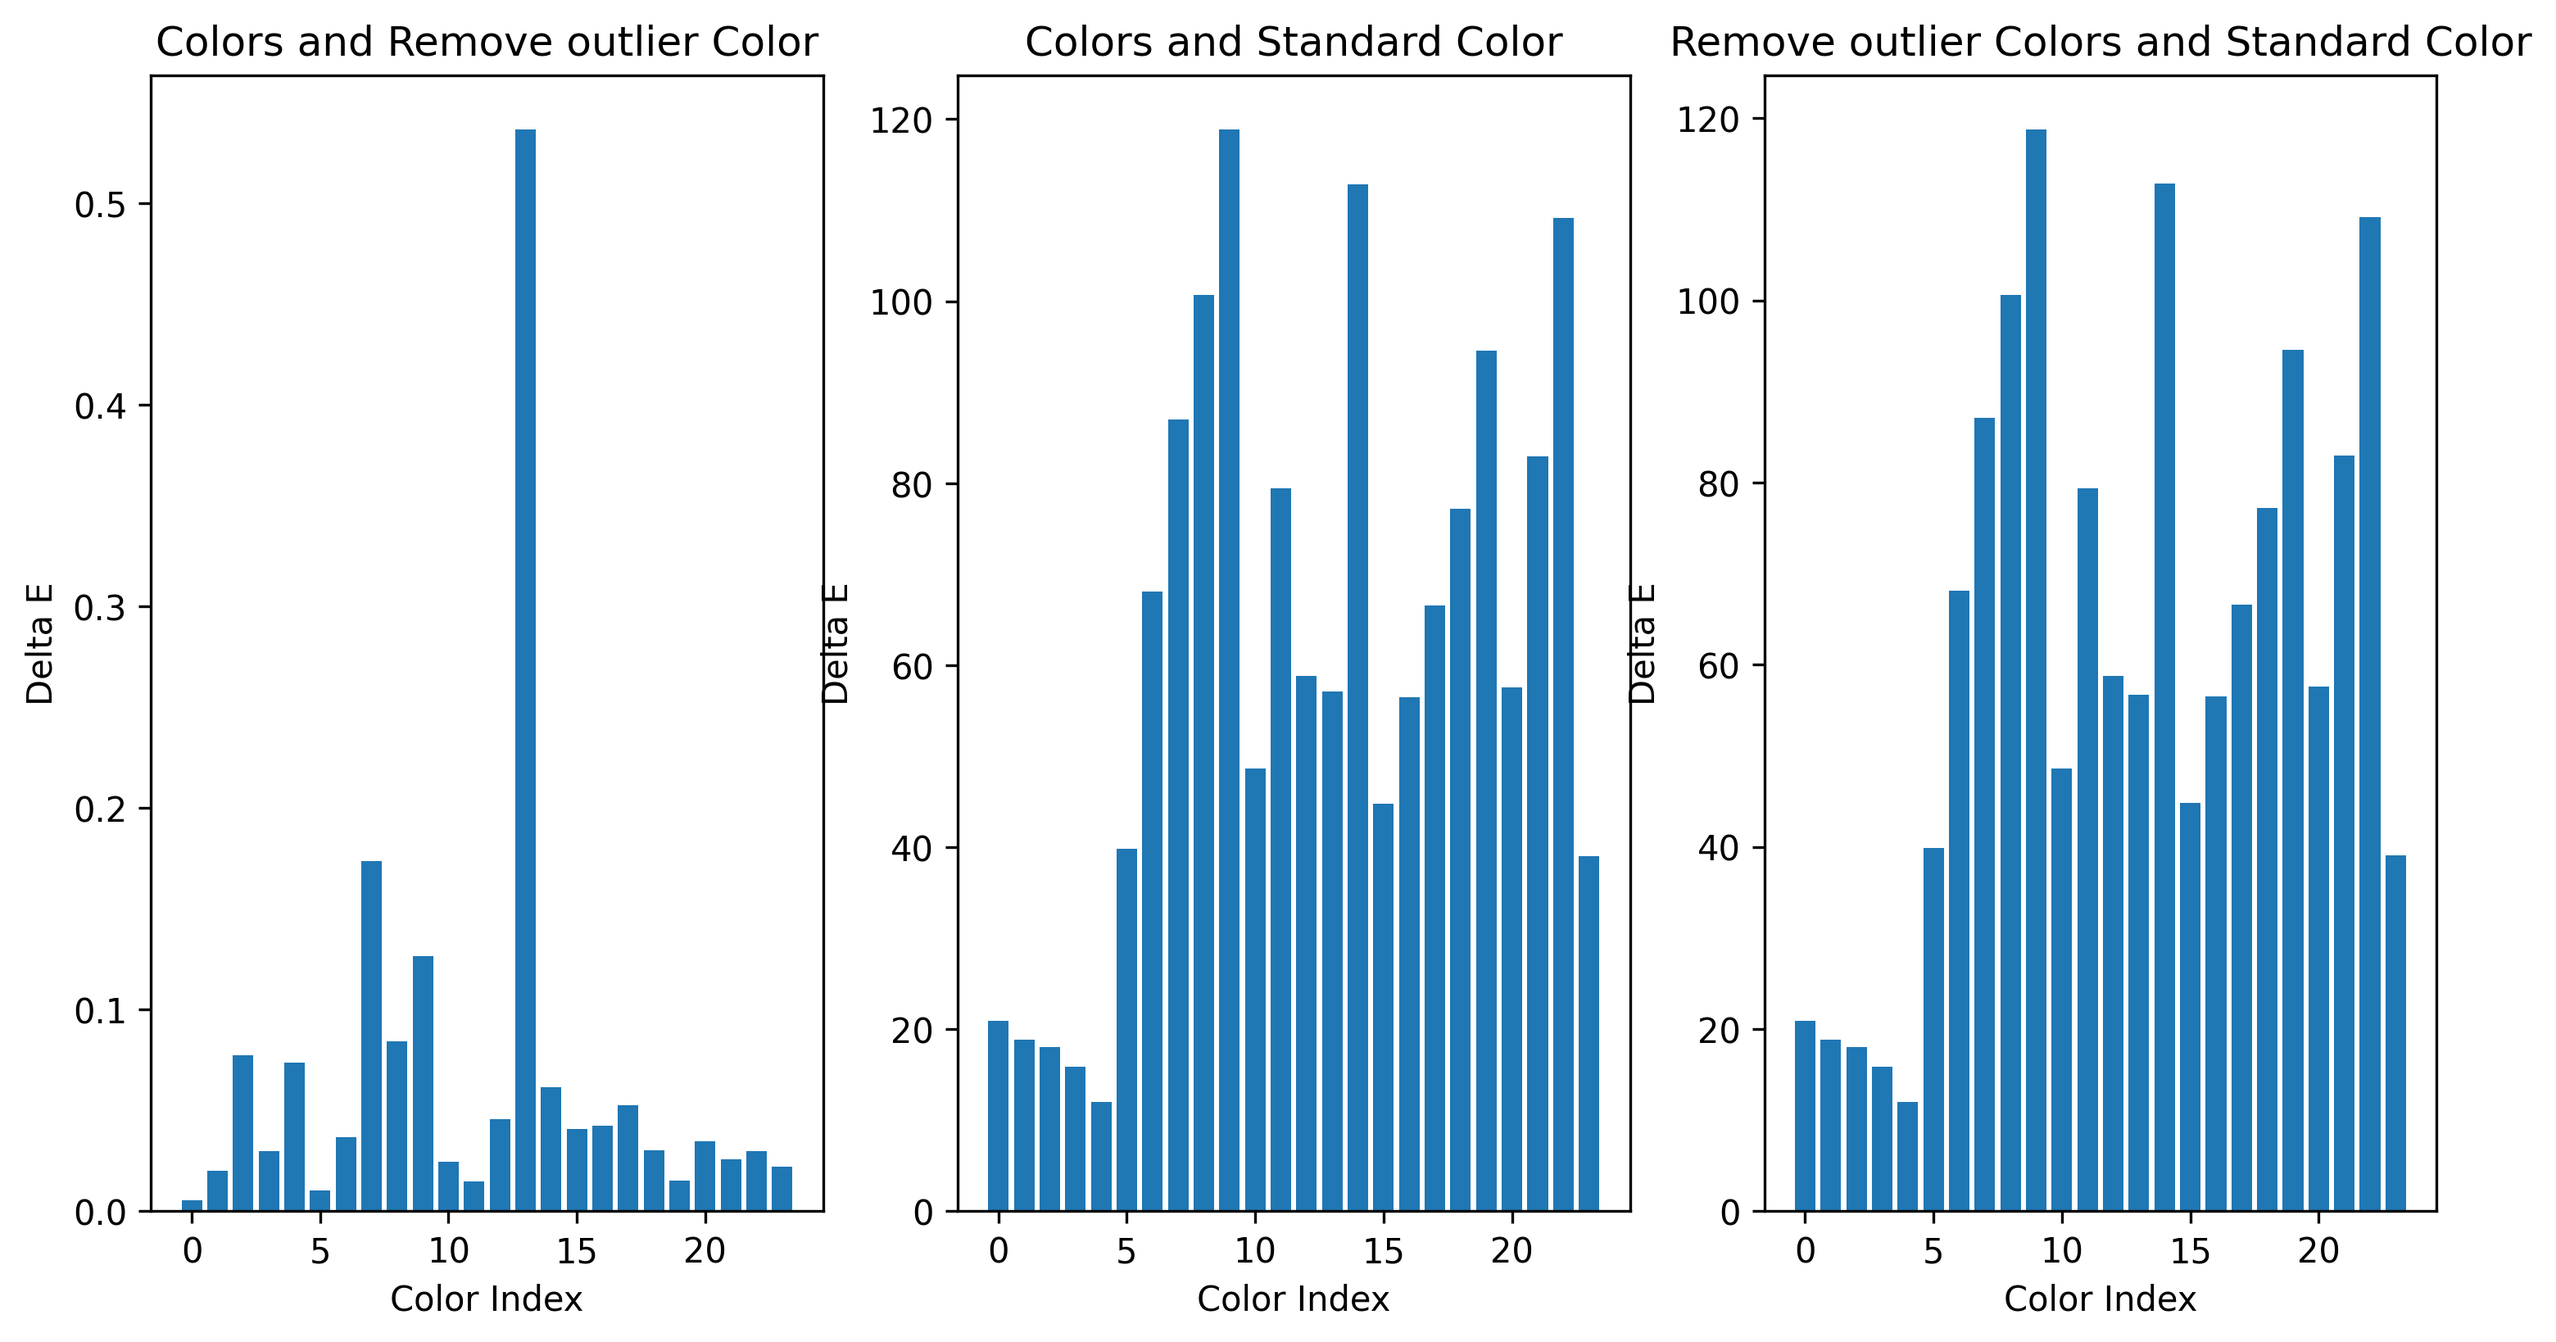
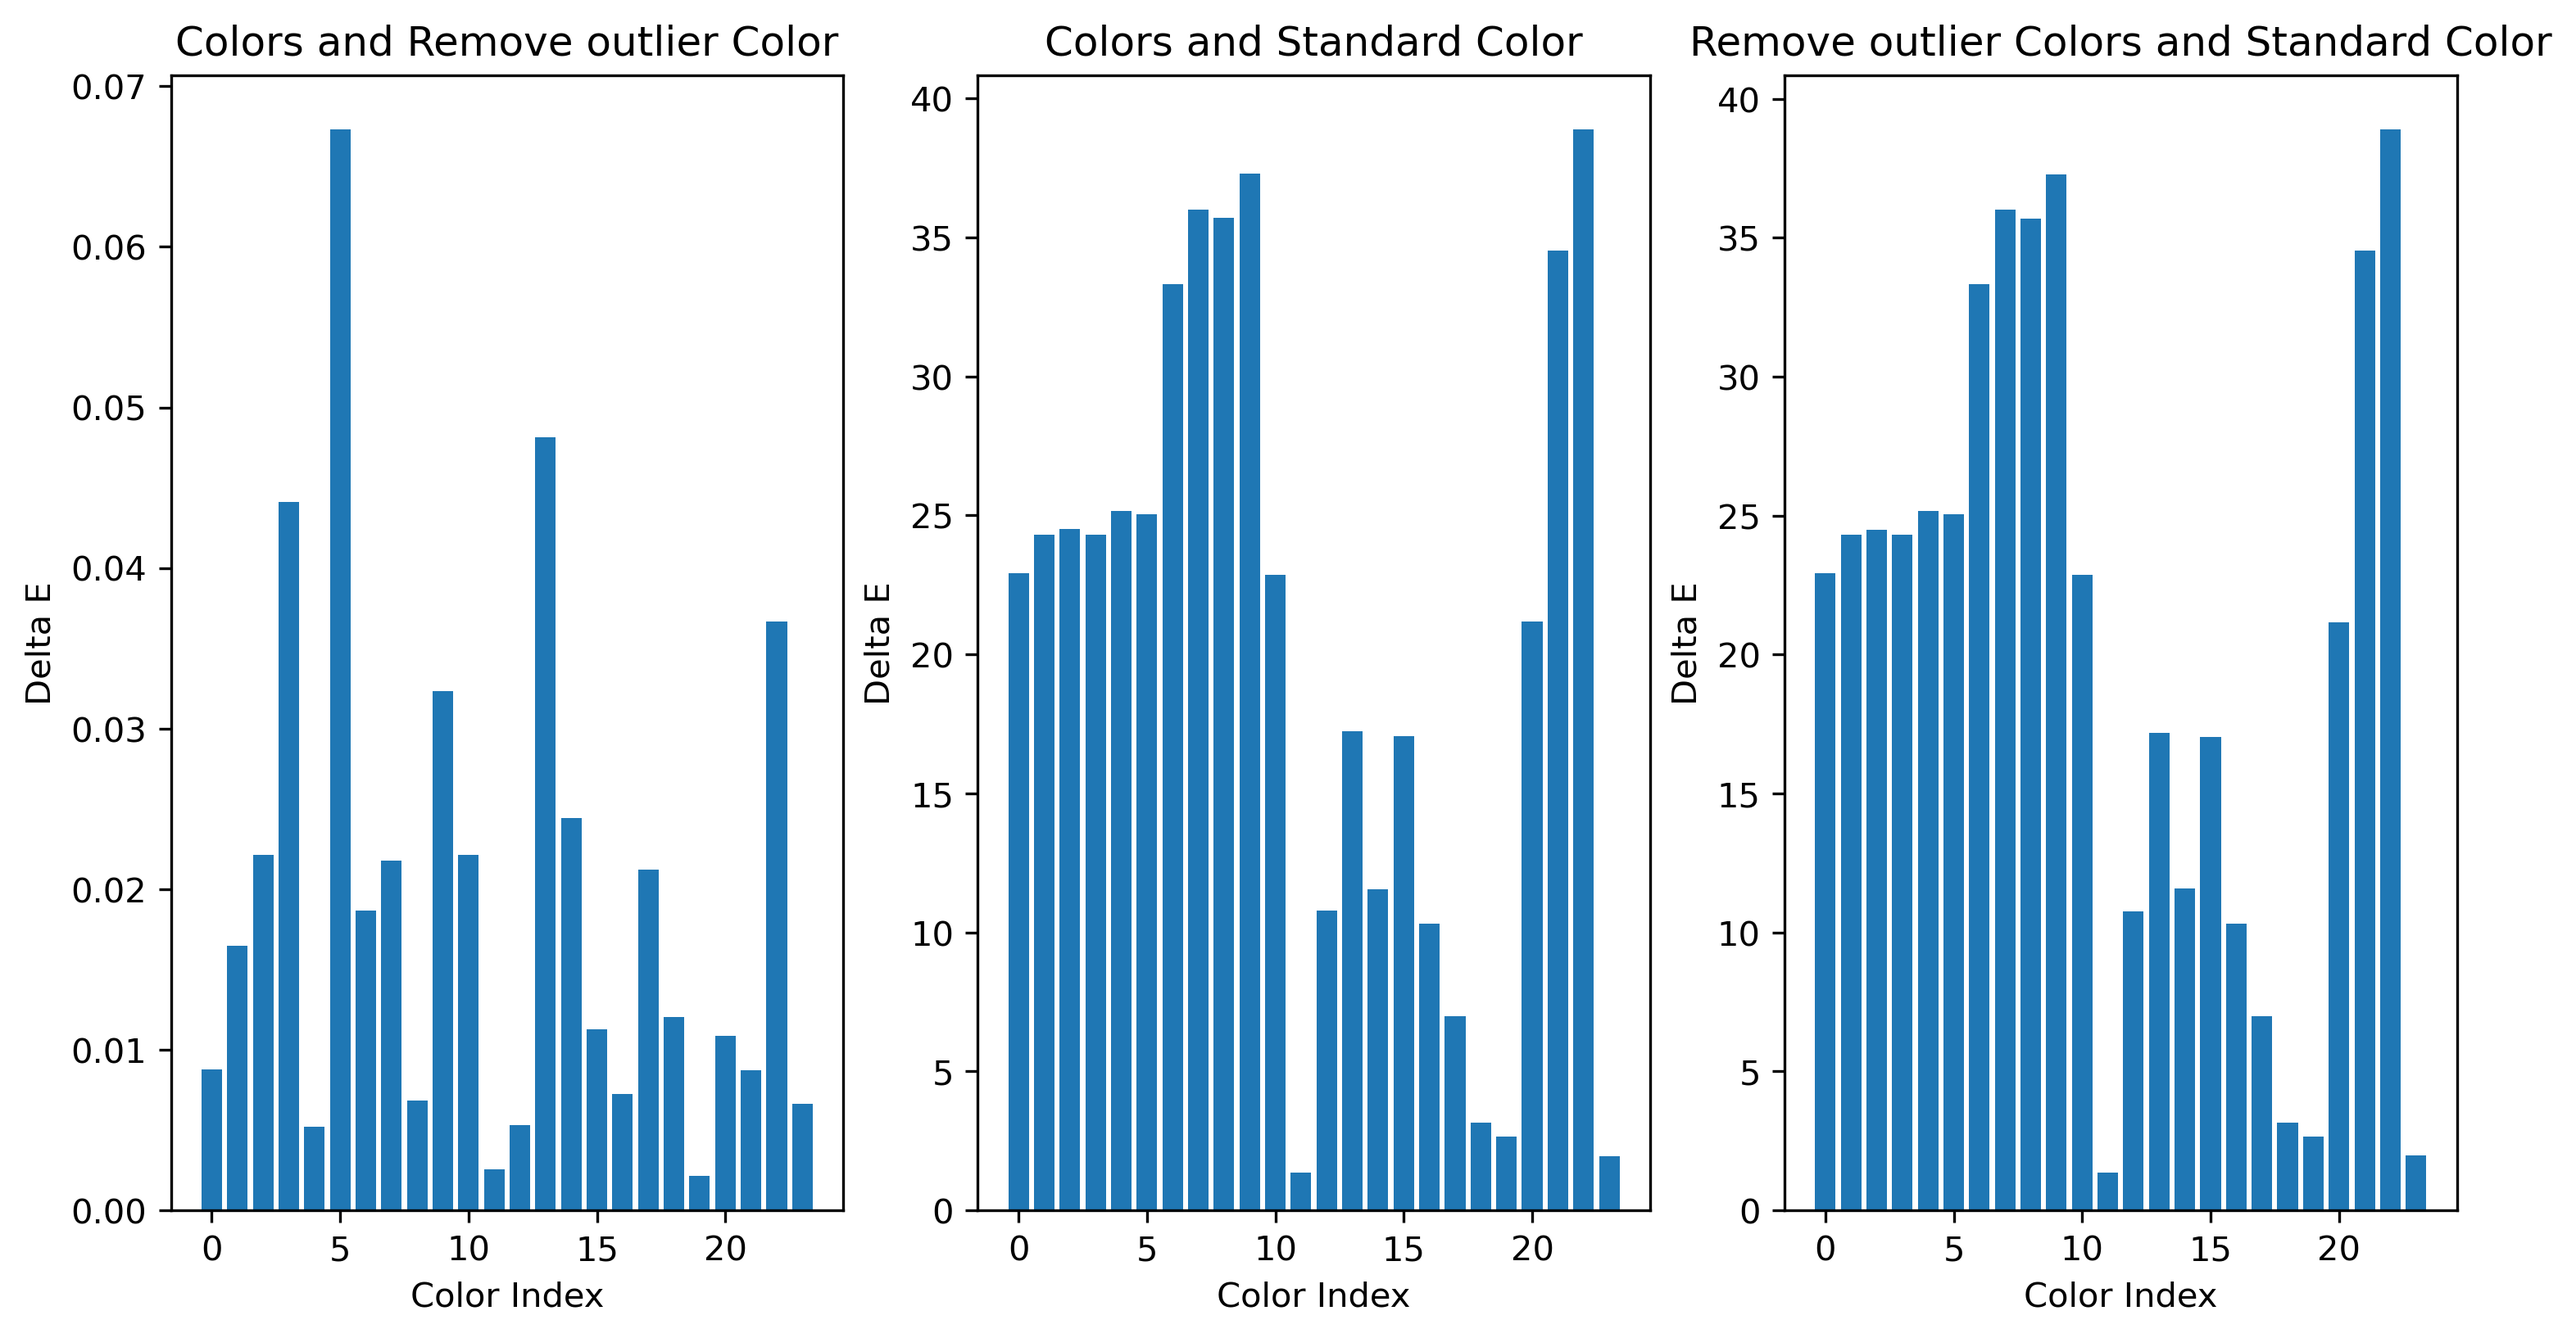
Feat: Change DeltaE calculate method to ciede2000

diff --git a/CC_IQA.py b/CC_IQA.py
@@ -85,13 +85,78 @@ def load_std_ref_LAB(c_type):
     else:
         assert True, "type error"
 
+# 定義 delta_e_ciede2000 函數，用於計算 CIEDE-2000 色差
+def delta_e_ciede2000(Lab1, Lab2, kL=1, kC=1, kH=1):
+    L1, a1, b1 = Lab1
+    L2, a2, b2 = Lab2
+
+    def deg_to_rad(deg):
+        return np.radians(deg)
+
+    def rad_to_deg(rad):
+        return np.degrees(rad)
+
+    # 計算 CIEDE-2000 中的各個參數
+    L_bar = (L1 + L2) / 2
+    C1 = np.sqrt(a1**2 + b1**2)
+    C2 = np.sqrt(a2**2 + b2**2)
+    C_bar = (C1 + C2) / 2
+
+    G = 0.5 * (1 - np.sqrt(C_bar**7 / (C_bar**7 + 25**7)))
+
+    a1_prime = (1 + G) * a1
+    a2_prime = (1 + G) * a2
+
+    C1_prime = np.sqrt(a1_prime**2 + b1**2)
+    C2_prime = np.sqrt(a2_prime**2 + b2**2)
+
+    h1_prime = rad_to_deg(np.arctan2(b1, a1_prime))
+    if h1_prime < 0:
+        h1_prime += 360
+
+    h2_prime = rad_to_deg(np.arctan2(b2, a2_prime))
+    if h2_prime < 0:
+        h2_prime += 360
+
+    Delta_L_prime = L2 - L1
+    Delta_C_prime = C2_prime - C1_prime
+
+    h_diff = h2_prime - h1_prime
+    if abs(h_diff) <= 180:
+        Delta_H_prime = h2_prime - h1_prime
+    elif h_diff > 180:
+        Delta_H_prime = h2_prime - h1_prime - 360
+    else:
+        Delta_H_prime = h2_prime - h1_prime + 360
+
+    Delta_H_prime = 2 * np.sqrt(C1_prime * C2_prime) * np.sin(deg_to_rad(Delta_H_prime) / 2)
+
+    L_bar_prime = (L1 + L2) / 2
+    C_bar_prime = (C1_prime + C2_prime) / 2
+
+    h_bar_prime = (h1_prime + h2_prime) / 2
+    if abs(h1_prime - h2_prime) > 180:
+        h_bar_prime += 180
+
+    T = 1 - 0.17 * np.cos(deg_to_rad(h_bar_prime - 30)) + 0.24 * np.cos(deg_to_rad(2 * h_bar_prime))
+    S = 1 + 0.045 * C_bar_prime
+    R = 2 * np.sqrt(C_bar_prime**7 / (C_bar_prime**7 + 25**7))
+
+    Delta_L_term = Delta_L_prime / (kL * S)
+    Delta_C_term = Delta_C_prime / (kC * S)
+    Delta_H_term = Delta_H_prime / (kH * S)
+
+    Delta_E = np.sqrt(Delta_L_term**2 + Delta_C_term**2 + Delta_H_term**2 + R * Delta_C_term * Delta_H_term)
+
+    return Delta_E
+
 def calculate_delta_e(color1, color2):
     # 將 RGB 轉換為 Lab 色彩空間
     lab_color1 = rgb_to_lab(color1)
     lab_color2 = rgb_to_lab(color2)
     
     # 計算 Delta E
-    delta_e = distance.euclidean(lab_color1, lab_color2)
+    delta_e = delta_e_ciede2000(lab_color1, lab_color2)
     
     return delta_e
 
